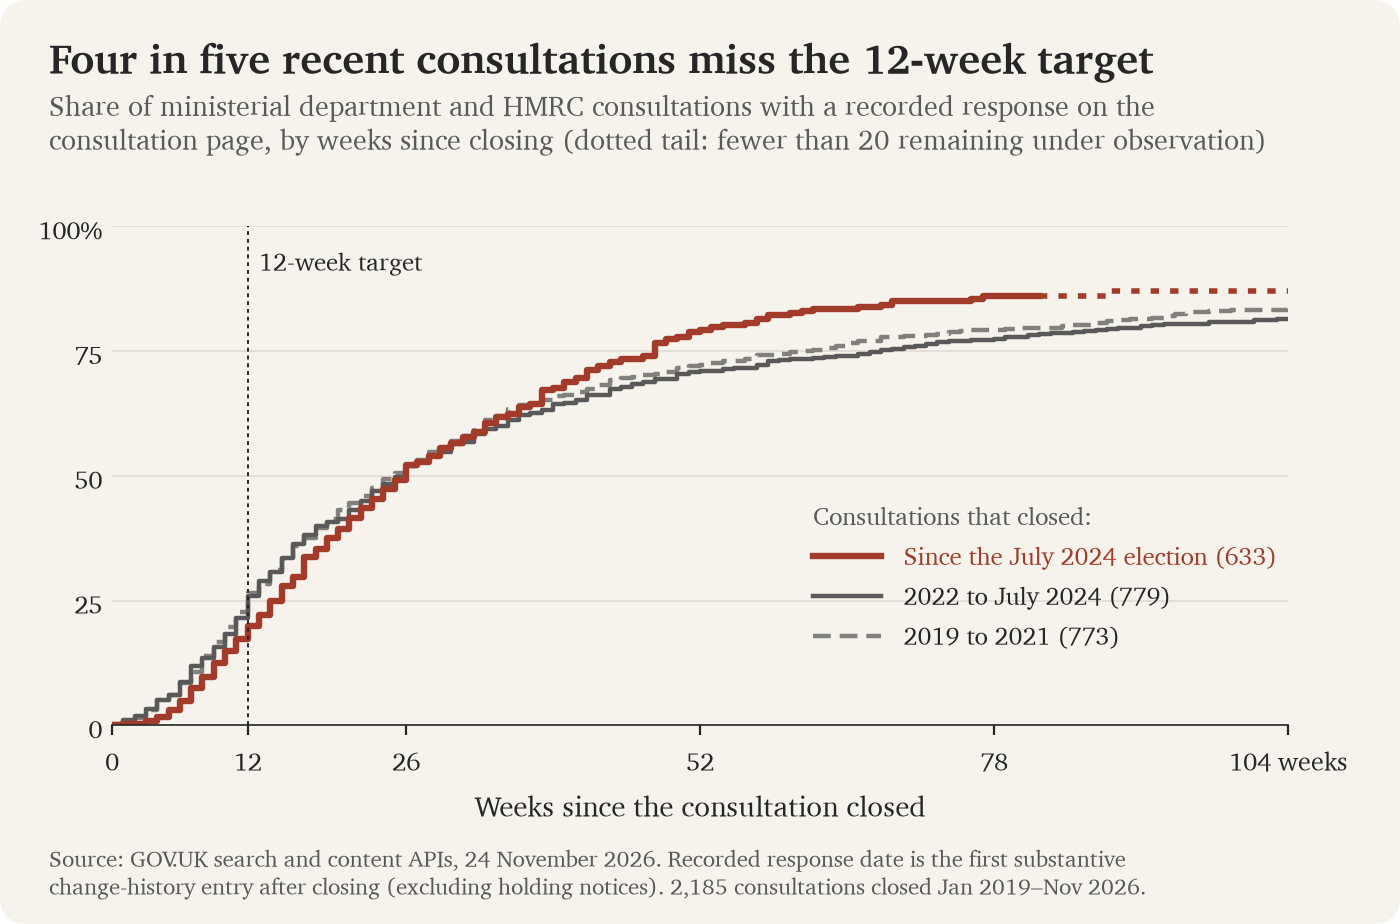
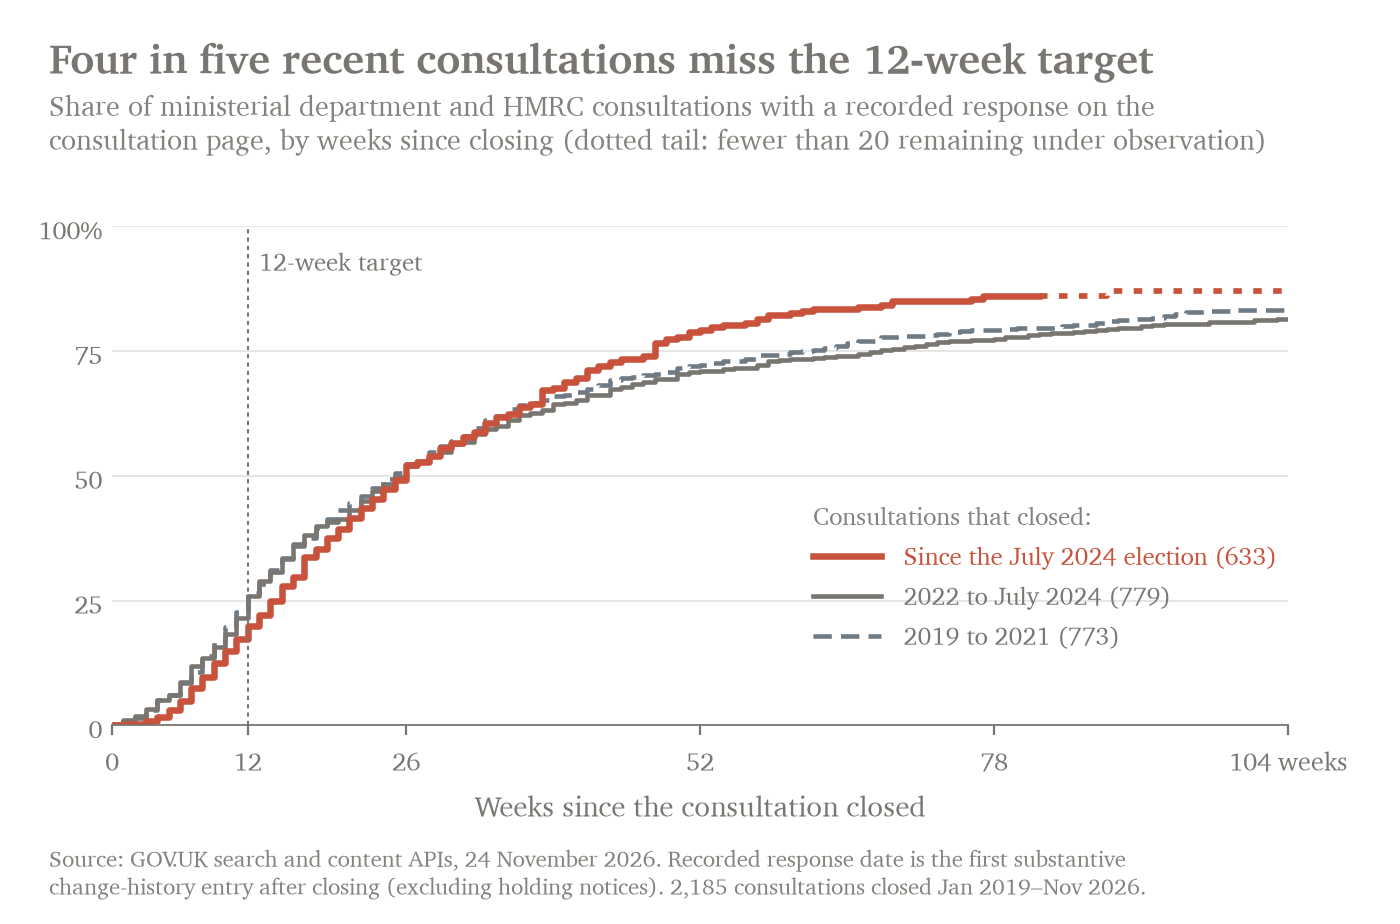
Switch house figure style and figures to dual-mode transparency (S019)

diff --git a/scripts/figure_table.py b/scripts/figure_table.py
@@ -44,7 +44,7 @@ def main(src, out):
     top = 0.715
     step = 0.0408
     bar_x0, bar_w = 0.270, 0.275
-    gap = 0.0022
+    seg_gap = 0.0024
 
     # Inline 3-swatch key above column headers
     key_y = 0.818
@@ -52,7 +52,7 @@ def main(src, out):
     swatches = [
         (0.270, PAL["accent"], "none", 0.0, "Answered within 12w"),
         (0.515, PAL["context"], "none", 0.0, "Answered later"),
-        (0.705, PAL["faint"], PAL["context"], 0.6, "No recorded response"),
+        (0.705, PAL["faint"], PAL["context"], 0.65, "No recorded response"),
     ]
     for sx, fc, ec, lw, label in swatches:
         fig.add_artist(Rectangle((sx, key_y - sw_h / 2), sw_w, sw_h, facecolor=fc, edgecolor=ec, lw=lw, zorder=2))
@@ -65,12 +65,14 @@ def main(src, out):
     fig.text(0.665, top + 0.028, "Within\n12 weeks", fontsize=BASE_PT * 0.84, color=PAL["muted"], weight="bold", ha="right", va="bottom")
     fig.text(0.825, top + 0.028, "No recorded\nresponse", fontsize=BASE_PT * 0.84, color=PAL["muted"], weight="bold", ha="right", va="bottom")
     fig.text(0.965, top + 0.028, "Median\ndays*", fontsize=BASE_PT * 0.84, color=PAL["muted"], weight="bold", ha="right", va="bottom")
-    fig.add_artist(Line2D([0.035, 0.965], [top + 0.020] * 2, color=PAL["ink"], lw=0.6))
+    fig.add_artist(Line2D([0.035, 0.965], [top + 0.020] * 2, color=PAL["ink"], lw=0.65))
 
-    # Vertical dashed 20% average reference line across the stacked bars
+    # Vertical dashed 20% average line behind bars with solid anchor ticks at top and bottom
     avg_x = bar_x0 + (overall_pct / 100.0) * bar_w
     y_bot = top - (len(d) - 0.5) * step
-    fig.add_artist(Line2D([avg_x, avg_x], [y_bot, top + 0.020], color=PAL["ink"], lw=0.7, ls=(0, (2, 2)), zorder=4))
+    fig.add_artist(Line2D([avg_x, avg_x], [y_bot, top + 0.020], color=PAL["ink"], lw=0.75, ls=(0, (2, 2)), zorder=1))
+    fig.add_artist(Line2D([avg_x, avg_x], [top + 0.020, top + 0.026], color=PAL["ink"], lw=0.8, zorder=3))
+    fig.add_artist(Line2D([avg_x, avg_x], [y_bot - 0.006, y_bot], color=PAL["ink"], lw=0.8, zorder=3))
     fig.text(avg_x, y_bot - 0.011, f"Avg within 12w: {overall_pct}%", fontsize=BASE_PT * 0.78, color=PAL["muted"], ha="center", va="top")
 
     bar_h = step * 0.54
@@ -88,17 +90,16 @@ def main(src, out):
         fig.text(0.035, y, name, fontsize=BASE_PT * 0.89, va="center", color=PAL["ink"])
         fig.text(0.248, y, f"{closed}", fontsize=BASE_PT * 0.89, va="center", ha="right", color=PAL["muted"])
 
-        fig.add_artist(Rectangle((bar_x0, y - bar_h / 2), bar_w, bar_h, facecolor=PAL["faint"], edgecolor="none", zorder=0))
-        bw1 = (w12 / closed) * bar_w
-        bw2 = (later / closed) * bar_w
-        if bw1 > 0:
-            fig.add_artist(Rectangle((bar_x0, y - bar_h / 2), bw1, bar_h, facecolor=PAL["accent"], edgecolor="none", zorder=2))
-        if bw2 > 0:
-            fig.add_artist(Rectangle((bar_x0 + bw1, y - bar_h / 2), bw2, bar_h, facecolor=PAL["context"], edgecolor="none", zorder=2))
-        if w12 > 0 and later > 0:
-            fig.add_artist(Rectangle((bar_x0 + bw1 - gap / 2, y - bar_h / 2), gap, bar_h, facecolor=PAL["paper"], edgecolor="none", zorder=3))
-        if (w12 + later) > 0 and nr > 0:
-            fig.add_artist(Rectangle((bar_x0 + bw1 + bw2 - gap / 2, y - bar_h / 2), gap, bar_h, facecolor=PAL["paper"], edgecolor="none", zorder=3))
+        # Draw each non-zero segment directly with true alpha=0 transparent interior gaps
+        segs = [(cnt, col) for cnt, col in [(w12, PAL["accent"]), (later, PAL["context"]), (nr, PAL["faint"])] if cnt > 0]
+        cur_x = bar_x0
+        for j, (cnt, col) in enumerate(segs):
+            raw_w = (cnt / closed) * bar_w
+            left_trim = seg_gap / 2 if j > 0 else 0.0
+            right_trim = seg_gap / 2 if j < len(segs) - 1 else 0.0
+            draw_w = max(raw_w - left_trim - right_trim, 0.001)
+            fig.add_artist(Rectangle((cur_x + left_trim, y - bar_h / 2), draw_w, bar_h, facecolor=col, edgecolor="none", zorder=2))
+            cur_x += raw_w
 
         fig.text(0.665, y, f"{pct_w12}% ({w12})", fontsize=BASE_PT * 0.87, va="center", ha="right", color=PAL["ink"])
         fig.text(0.825, y, f"{nr} ({pct_nr}%)", fontsize=BASE_PT * 0.87, va="center", ha="right", color=PAL["muted"])

diff --git a/figure_style/plot_setup.py b/figure_style/plot_setup.py
@@ -1,4 +1,4 @@
-"""House style for Of Particular Interest figures (editorial serif register, Substack column width).
+"""House style for Of Particular Interest figures (dual-mode transparent serif register, Substack column width).
 
 Import from a post's figure script:
     from plot_setup import PAL, figure, title_block, save
@@ -9,25 +9,23 @@ import matplotlib as mpl
 
 mpl.use("Agg")
 import matplotlib.pyplot as plt  # noqa: E402
-from matplotlib.patches import FancyBboxPatch  # noqa: E402
 
 FONT = "Charter"
 BASE_PT = 10.5
 WIDTH_IN = 7.0  # saved at 200 dpi -> 1400 px, 2x Substack's column
 SAVE_DPI = 200
-CORNER_RADIUS_PX = 28  # 14 CSS px at 700 px column width; transparent outside corners
 
 PAL = dict(
-    paper="#F6F2EC",    # matches ceross.substack.com --web_bg_color; soft card in dark mode
-    accent="#A23B2A",   # the subject of the figure's sentence (5.89:1 on #F6F2EC)
-    accent2="#2F5D8A",  # second accent, used rarely
-    ink="#262626",      # primary text (13.57:1 on #F6F2EC, WCAG AAA)
-    muted="#595959",    # subtitles, notes, source lines (6.28:1 on #F6F2EC, WCAG AA)
-    context="#82807C",  # non-subject bars/series (3.53:1 on #F6F2EC, WCAG 1.4.11 AA >= 3:1)
-    faint="#E0DCD5",    # decorative gridlines, table rules on warm paper
+    accent="#C8523B",     # focal series/bars (3.98:1 on #F6F2EC, 3.96:1 on #191919)
+    accent2="#477AA8",    # secondary accent (4.08:1 on #F6F2EC, 3.87:1 on #191919)
+    ink="#797671",        # primary text, spines, reference lines (4.06:1 on #F6F2EC, 3.89:1 on #191919)
+    muted="#7A7772EB",    # subtitles, secondary labels, sources (3.50:1 on #F6F2EC, 3.55:1 on #191919)
+    context="#6E7B85",    # comparison series/bars (3.89:1 on #F6F2EC, 4.05:1 on #191919)
+    faint="#7A777238",    # gridlines, row rules, empty slots (~1.29:1 on both #F6F2EC and #191919)
 )
 
-_TRANSPARENT_PAPER = (246 / 255, 242 / 255, 236 / 255, 0.0)
+# Neutral mid-grey RGB with alpha=0 prevents dark or light halos on anti-aliased edges.
+_TRANSPARENT = (121 / 255, 118 / 255, 113 / 255, 0.0)
 
 mpl.rcParams.update({
     "font.family": "serif",
@@ -38,7 +36,7 @@ mpl.rcParams.update({
     "axes.labelsize": BASE_PT,
     "axes.labelcolor": PAL["ink"],
     "axes.edgecolor": PAL["ink"],
-    "axes.linewidth": 0.6,
+    "axes.linewidth": 0.65,
     "axes.spines.top": False,
     "axes.spines.right": False,
     "axes.grid": False,
@@ -53,37 +51,24 @@ mpl.rcParams.update({
     "legend.frameon": False,
     "figure.dpi": 100,
     "savefig.dpi": SAVE_DPI,
-    "figure.facecolor": _TRANSPARENT_PAPER,
+    "figure.facecolor": _TRANSPARENT,
 })
 
 
 def figure(aspect=0.62, nrows=1, ncols=1, **kw):
     fig, axes = plt.subplots(nrows, ncols, figsize=(WIDTH_IN, WIDTH_IN * aspect), **kw)
-    fig.patch.set_facecolor(_TRANSPARENT_PAPER)
+    fig.patch.set_facecolor(_TRANSPARENT)
     return fig, axes
 
 
 def title_block(fig, title, subtitle, source, top=0.965, left=0.035, subtitle_gap=None):
     """Assertive title, measurement subtitle and source line, all on one left edge."""
     gap = subtitle_gap if subtitle_gap is not None else (0.282 / fig.get_figheight())
-    fig.text(left, top, title, ha="left", va="top", fontsize=BASE_PT * 1.45, weight="bold")
+    fig.text(left, top, title, ha="left", va="top", fontsize=BASE_PT * 1.45, weight="bold", color=PAL["ink"])
     fig.text(left, top - gap, subtitle, ha="left", va="top", fontsize=BASE_PT * 0.95, color=PAL["muted"])
     fig.text(left, 0.026, source, ha="left", va="bottom", fontsize=BASE_PT * 0.78, color=PAL["muted"])
 
 
-def save(fig, path, radius_px=CORNER_RADIUS_PX):
-    w_in, h_in = fig.get_size_inches()
-    card = FancyBboxPatch(
-        (0, 0),
-        w_in,
-        h_in,
-        boxstyle=f"round,pad=0,rounding_size={radius_px / SAVE_DPI}",
-        facecolor=PAL["paper"],
-        edgecolor="none",
-        transform=fig.dpi_scale_trans,
-        zorder=-1000,
-        clip_on=False,
-    )
-    fig.patches.append(card)
-    fig.savefig(path, dpi=SAVE_DPI, facecolor=_TRANSPARENT_PAPER, edgecolor="none")
+def save(fig, path):
+    fig.savefig(path, dpi=SAVE_DPI, facecolor=_TRANSPARENT, edgecolor="none", transparent=True)
     plt.close(fig)

diff --git a/scripts/figure.py b/scripts/figure.py
@@ -17,9 +17,9 @@ from departments import DEPARTMENTS, SNAPSHOT, km_cumulative  # noqa: E402
 from plot_setup import BASE_PT, PAL, figure, save, title_block  # noqa: E402
 
 COHORTS = [
-    ("2019-01-01", "2022-01-01", "2019 to 2021", PAL["context"], (0, (4, 2)), 1.6),
-    ("2022-01-01", "2024-07-05", "2022 to July 2024", PAL["muted"], "-", 1.6),
-    ("2024-07-05", "2026-11-24", "Since the July 2024 election", PAL["accent"], "-", 2.3),
+    ("2019-01-01", "2022-01-01", "2019 to 2021", PAL["context"], (0, (4, 2)), 1.65),
+    ("2022-01-01", "2024-07-05", "2022 to July 2024", PAL["ink"], "-", 1.65),
+    ("2024-07-05", "2026-11-24", "Since the July 2024 election", PAL["accent"], "-", 2.35),
 ]
 
 
@@ -38,7 +38,7 @@ def main(src, out):
         cum = 100 * km_cumulative(g["t"].values, g["event"].values if "event" in g else g["responded"].values, weeks * 7)
         if start == "2024-07-05":
             ax.step(weeks[:83], cum[:83], where="post", color=colour, ls=ls, lw=lw)
-            ax.step(weeks[82:], cum[82:], where="post", color=colour, ls=(0, (1.5, 2)), lw=2.0)
+            ax.step(weeks[82:], cum[82:], where="post", color=colour, ls=(0, (1.5, 2)), lw=2.05)
         else:
             ax.step(weeks, cum, where="post", color=colour, ls=ls, lw=lw)
         last = np.nanmax(np.where(~np.isnan(cum))[0])
@@ -50,8 +50,8 @@ def main(src, out):
         ax.plot([62, 68], [y, y], color=colour, ls=ls, lw=lw)
         ax.text(70, y, text, va="center", fontsize=BASE_PT * 0.85,
                 color=colour if colour == PAL["accent"] else PAL["ink"])
-    ax.axvline(12, color=PAL["ink"], lw=0.7, ls=(0, (2, 2)))
-    ax.text(13, 96, "12-week target", fontsize=BASE_PT * 0.85, va="top")
+    ax.axvline(12, color=PAL["ink"], lw=0.75, ls=(0, (2, 2)))
+    ax.text(13, 96, "12-week target", fontsize=BASE_PT * 0.85, va="top", color=PAL["ink"])
     ax.set_xlim(0, 104)
     ax.set_ylim(0, 100)
     ax.set_xticks([0, 12, 26, 52, 78, 104], ["0", "12", "26", "52", "78", "104 weeks"])

diff --git a/CLOSURE_LOG.md b/CLOSURE_LOG.md
@@ -24,3 +24,4 @@
 | S016 | `scripts/departments.py` lacked Principle 10 (<=84d answered / explained / neither) and `answered_later` outputs (`#editorial review`) | Accept | Updated `scripts/departments.py` to parse `delay_note_date`, compute `answered_later`, `explained_12w`, and `neither_12w` across `N=558` post-election and pre-2024 cohorts, export `answered_later` & `explained_12w` in `data/departments_since_election.csv`, and print the Principle 10 breakdown to `data/departments_output.txt`. | Verified `558 = 112 (20%) + 291 (52%) + 155 (28%)`; Principle 10 `<=84d` split `112 (20%) answered`, `24 (4%) explained_only` (`Defra: 22, BIST/DBT: 1, MoD: 1`), `422 (76%) neither` (vs `72%` in 2019–21 and 2022–July 2024). | `uv run --offline --python 3.12 ... python -I scripts/departments.py` exited 0; outputs verified in `data/departments_since_election.csv` & `data/departments_output.txt`. | `data/departments_since_election.csv`, `data/departments_output.txt`, `S017`, `S018`. | closed-verified |
 | S017 | `fig1` post-2024 low-risk tail lacked visual caution and `fig2` showed only 12-week bars (`#editorial review`) | Accept | Split post-July 2024 curve in `scripts/figure.py` at week `82` (`n_at_risk >= 20`) with a dotted tail (`ls=(0, (1.5, 2))`) from weeks `82–104` and updated subtitle/source text; redesigned `scripts/figure_table.py` (`aspect=0.93`) as a 3-part 0–100% stacked bar chart (`Answered within 12w` / `Answered later` / `No recorded response`) with inline key at `y=0.818` and dashed 20% average line. | `fig1_response_curves.png` (`1400x924`, `L=40, R=53, T=42, B=24 px`) and `fig2_departments.png` (`1400x1302`, `L=48, R=47, T=55, B=34 px`, `accent: 33017 px`, `context: 80249 px`) rendered under `Matplotlib 3.11.2` with 0 warnings, `alpha=0` corners, and `#F6F2EC` interior. | Pillow pixel/alpha/bbox checks + visual inspection of both PNGs via `read_file`. | `S016`, `S018`. | closed-verified |
 | S018 | Editorial review of `draft_20261031.md`: slow intro, buried Defra/bargain stakes, polling-date & `n=5` KM wording precision, unmeasured respondent-resource claim, unlogged-outcome bound, and Principle 10 gap | Accept (with uniform-rule retention for 2 silent outcomes) | Revised `draft_20261031.md` (`111` lines) and `README.md`: adopted new subtitle and front-loaded opening, added `## Still analysing` (Defra `184,000` vs `11` calibrated fairly + `76%` Principle 10 finding), added `4 July` vs `5 July 2024` distinction, dropped noisy post-2024 2-year figure from body & fixed `n=5` explanation, replaced unpaid-respondent claim with concrete participant examples, documented `155 -> 153` unlogged-outcome bound while keeping uniform update-history rule, and removed July 2026 Burnham paragraph. | Every figure reconciles programmatically with `data/consultations_since_2019.csv`, `data/departments_since_election.csv`, `data/km_summary_3cohorts.csv`, and `data/raw/content.jsonl`; `0` em-dashes, `0` semicolons, `0` pipes, `0` placeholders, `11/11` draft URLs + `3/3` `README.md` URLs HTTP `200`. | Final Python verification gate exited 0. | `S015`, `S016`, `S017`. | closed-verified |
+| S019 | Figures rendered on `#F6F2EC` opaque card; dark-mode readability requested via transparent background with optimal dual-mode contrast | Accept | Switched `../figure_style/plot_setup.py` and bundled `figure_style/plot_setup.py` (SHA-256 `d6cbc2c9...`) to full `alpha=0` transparency (`_TRANSPARENT = (121/255, 118/255, 113/255, 0.0)`) with saddle-luminance opaque primaries (`accent=#C8523B`, `accent2=#477AA8`, `ink=#797671`, `context=#6E7B85`) and alpha-attenuated `muted=#7A7772EB` / `faint=#7A777238`; updated `scripts/figure.py` cohort colors and `scripts/figure_table.py` to draw true `alpha=0` bar-segment gaps with `zorder=1` dashed line + `zorder=3` anchor ticks; re-rendered both PNGs. | Both PNGs verified `1400px` wide RGBA (`fig1`: `alpha0=0.927`, `L=40/R=53/T=42/B=24 px`; `fig2`: `alpha0=0.829`, `L=48/R=47/T=55/B=34 px`, `card_px=0`, `0` stderr); composited WCAG contrasts `3.87:1–4.55:1` (`accent`, `accent2`, `ink`, `context`) and `3.50:1–3.85:1` (`muted`) across `#FFFFFF`, `#F6F2EC`, `#191919`, `#121212`; light/dark side-by-side composite previews inspected via `read_file`. | Pillow pixel/alpha/bbox checks + visual light/dark preview inspection + isolated clone reproduction (`0 pixel diffs`). | `figure_style/plot_setup.py`, `scripts/figure.py`, `scripts/figure_table.py`, `figures/fig1_response_curves.png`, `figures/fig2_departments.png`, `S015`. | closed-verified |
